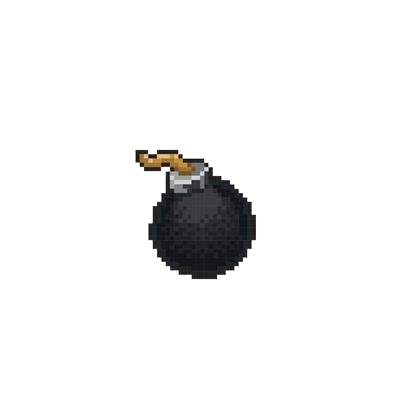
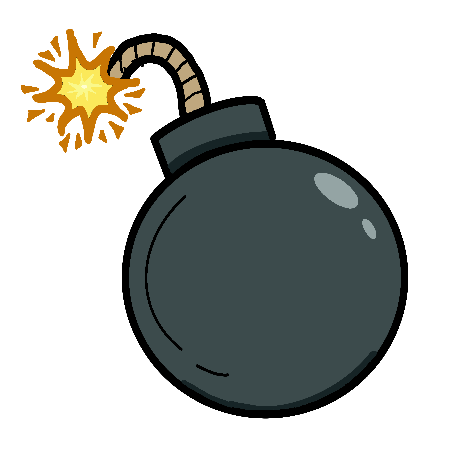
Imagen Bomba

diff --git a/core/src/main/java/io/github/KaabomGame/Bomb.java b/core/src/main/java/io/github/KaabomGame/Bomb.java
@@ -1,7 +1,7 @@
 package io.github.KaabomGame;
 
-import com.badlogic.gdx.graphics.glutils.ShapeRenderer;
-import com.badlogic.gdx.graphics.Color;
+import com.badlogic.gdx.graphics.Texture;
+import com.badlogic.gdx.graphics.g2d.SpriteBatch;
 
 public class Bomb {
     private static final float EXPLOSION_TIME = 3f; // segundos hasta explotar
@@ -13,8 +13,8 @@ public class Bomb {
     private boolean exploded = false;
     private float explosionTimer = 0f;
 
-    private ShapeRenderer shapeRenderer;
-
+    private Texture bombTexture;  // Textura para la bomba
+    private SpriteBatch batch;
 
     public boolean playerHasLeftTile() {
         return playerHasLeftTile;
@@ -33,7 +33,10 @@ public class Bomb {
         this.tileX = tileX;
         this.tileY = tileY;
         this.timer = EXPLOSION_TIME;
-        this.shapeRenderer = new ShapeRenderer();
+
+        // Inicializar la textura de la bomba
+        bombTexture = new Texture("bomba.png"); // Asegúrate de tener el archivo bomba.png en la carpeta correcta
+        batch = new SpriteBatch();  // Usamos SpriteBatch para dibujar la textura
     }
 
     public void update(float delta) {
@@ -42,7 +45,6 @@ public class Bomb {
             if (timer <= 0) {
                 exploded = true;
                 explosionTimer = EXPLOSION_DURATION;
-
                 destroyNearbyBlocks();
             }
         } else {
@@ -51,17 +53,15 @@ public class Bomb {
     }
 
     public void render(float offsetX, float offsetY) {
-        shapeRenderer.begin(ShapeRenderer.ShapeType.Filled);
+        batch.begin();
 
         if (!exploded) {
             // Dibuja la bomba antes de explotar
-            shapeRenderer.setColor(Color.WHITE);
-            shapeRenderer.circle(tileX * GameMap.TILE_SIZE + GameMap.TILE_SIZE / 2f + offsetX,
-                tileY * GameMap.TILE_SIZE + GameMap.TILE_SIZE / 2f + offsetY,
-                GameMap.TILE_SIZE / 2f);
+            batch.draw(bombTexture, tileX * GameMap.TILE_SIZE + offsetX,
+                tileY * GameMap.TILE_SIZE + offsetY, GameMap.TILE_SIZE, GameMap.TILE_SIZE);
         } else if (explosionTimer > 0) {
             // Dibuja la explosión en cruz (bomba + 4 direcciones)
-            shapeRenderer.setColor(Color.RED);
+            batch.setColor(1, 0, 0, 1);  // Establecer el color de la explosión (rojo)
 
             // Centro (celda de la bomba)
             drawExplosionTile(tileX, tileY, offsetX, offsetY);
@@ -84,7 +84,7 @@ public class Bomb {
             }
         }
 
-        shapeRenderer.end();
+        batch.end();
     }
 
     private void tryDestroy(int x, int y) {
@@ -101,7 +101,6 @@ public class Bomb {
         return GameMap.MAP.length - 1 - tileY;
     }
 
-
     private void destroyNearbyBlocks() {
         tryDestroy(tileX, tileY); // centro
         if (canExplodeAt(tileX - 1, tileY)) tryDestroy(tileX - 1, tileY); // izquierda
@@ -110,12 +109,9 @@ public class Bomb {
         if (canExplodeAt(tileX, tileY - 1)) tryDestroy(tileX, tileY - 1); // abajo
     }
 
-
-
     private void drawExplosionTile(int x, int y, float offsetX, float offsetY) {
-        shapeRenderer.rect(x * GameMap.TILE_SIZE + offsetX,
-            y * GameMap.TILE_SIZE + offsetY,
-            GameMap.TILE_SIZE, GameMap.TILE_SIZE);
+        batch.draw(bombTexture, x * GameMap.TILE_SIZE + offsetX,
+            y * GameMap.TILE_SIZE + offsetY, GameMap.TILE_SIZE, GameMap.TILE_SIZE);
     }
 
     private boolean canExplodeAt(int x, int y) {
@@ -132,7 +128,8 @@ public class Bomb {
     }
 
     public void dispose() {
-        shapeRenderer.dispose();
+        batch.dispose();  // Liberamos los recursos de SpriteBatch
+        bombTexture.dispose();  // Liberamos la textura de la bomba
     }
 
     public int getTileX() {
@@ -143,5 +140,3 @@ public class Bomb {
         return tileY;
     }
 }
-
-
